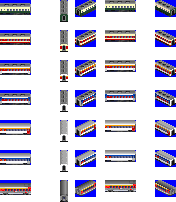
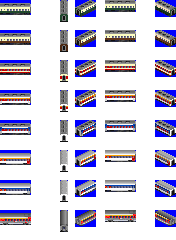
Implement #131: Mugunghwa old livery

diff --git a/docs/download_page/english.html b/docs/download_page/english.html
@@ -230,7 +230,7 @@
         <td class="introduction">1987</td>
     </tr>
     <tr data-veh_id="MUGUNGHWA_CAR">
-        <td class="refit"><div><img src="./_static/MUGUNGHWA_CAR_A.png" alt="Mugunghwa passenger car"><br /><img src="./_static/MUGUNGHWA_CAR_B.png" alt="Mugunghwa passenger car"><br /><img src="./_static/MUGUNGHWA_CAR_C.png" alt="Mugunghwa passenger car"><br /><img src="./_static/MUGUNGHWA_CAR_D.png" alt="Mugunghwa passenger car"><br /><img src="./_static/MUGUNGHWA_CAR_E.png" alt="Mugunghwa passenger car"><br /><img src="./_static/MUGUNGHWA_CAR_RED_BLUE_WHITE.png" alt="Mugunghwa passenger car"><br /><img src="./_static/MUGUNGHWA_CAR_OLD_EXPRESS.png" alt="Mugunghwa passenger car"><br /><img src="./_static/HAERANG.png" alt="Mugunghwa passenger car"><br /><img src="./_static/G_TRAIN.png" alt="Mugunghwa passenger car"><br /><img src="./_static/S_TRAIN_1.png" alt="Mugunghwa passenger car"><br /><img src="./_static/S_TRAIN_2.png" alt="Mugunghwa passenger car"><br /><img src="./_static/A_TRAIN_1.png" alt="Mugunghwa passenger car"></div></td>
+        <td class="refit"><div><img src="./_static/MUGUNGHWA_CAR_A.png" alt="Mugunghwa passenger car"><br /><img src="./_static/MUGUNGHWA_CAR_B.png" alt="Mugunghwa passenger car"><br /><img src="./_static/MUGUNGHWA_CAR_C.png" alt="Mugunghwa passenger car"><br /><img src="./_static/MUGUNGHWA_CAR_D.png" alt="Mugunghwa passenger car"><br /><img src="./_static/MUGUNGHWA_CAR_E.png" alt="Mugunghwa passenger car"><br /><img src="./_static/MUGUNGHWA_CAR_F.png" alt="Mugunghwa passenger car"><br /><img src="./_static/MUGUNGHWA_CAR_RED_BLUE_WHITE.png" alt="Mugunghwa passenger car"><br /><img src="./_static/MUGUNGHWA_CAR_OLD_EXPRESS.png" alt="Mugunghwa passenger car"><br /><img src="./_static/HAERANG.png" alt="Mugunghwa passenger car"><br /><img src="./_static/G_TRAIN.png" alt="Mugunghwa passenger car"><br /><img src="./_static/S_TRAIN_1.png" alt="Mugunghwa passenger car"><br /><img src="./_static/S_TRAIN_2.png" alt="Mugunghwa passenger car"><br /><img src="./_static/A_TRAIN_1.png" alt="Mugunghwa passenger car"></div></td>
         <td class="name">Mugunghwa passenger car</td>
         <td class="speed">135 km/h</td>
         <td class="speed_designed">135 km/h</td>

diff --git a/docs/download_page/korean.html b/docs/download_page/korean.html
@@ -230,7 +230,7 @@
         <td class="introduction">1987</td>
     </tr>
     <tr data-veh_id="MUGUNGHWA_CAR">
-        <td class="refit"><div><img src="./_static/MUGUNGHWA_CAR_A.png" alt="무궁화호 객차"><br /><img src="./_static/MUGUNGHWA_CAR_B.png" alt="무궁화호 객차"><br /><img src="./_static/MUGUNGHWA_CAR_C.png" alt="무궁화호 객차"><br /><img src="./_static/MUGUNGHWA_CAR_D.png" alt="무궁화호 객차"><br /><img src="./_static/MUGUNGHWA_CAR_E.png" alt="무궁화호 객차"><br /><img src="./_static/MUGUNGHWA_CAR_RED_BLUE_WHITE.png" alt="무궁화호 객차"><br /><img src="./_static/MUGUNGHWA_CAR_OLD_EXPRESS.png" alt="무궁화호 객차"><br /><img src="./_static/HAERANG.png" alt="무궁화호 객차"><br /><img src="./_static/G_TRAIN.png" alt="무궁화호 객차"><br /><img src="./_static/S_TRAIN_1.png" alt="무궁화호 객차"><br /><img src="./_static/S_TRAIN_2.png" alt="무궁화호 객차"><br /><img src="./_static/A_TRAIN_1.png" alt="무궁화호 객차"></div></td>
+        <td class="refit"><div><img src="./_static/MUGUNGHWA_CAR_A.png" alt="무궁화호 객차"><br /><img src="./_static/MUGUNGHWA_CAR_B.png" alt="무궁화호 객차"><br /><img src="./_static/MUGUNGHWA_CAR_C.png" alt="무궁화호 객차"><br /><img src="./_static/MUGUNGHWA_CAR_D.png" alt="무궁화호 객차"><br /><img src="./_static/MUGUNGHWA_CAR_E.png" alt="무궁화호 객차"><br /><img src="./_static/MUGUNGHWA_CAR_F.png" alt="무궁화호 객차"><br /><img src="./_static/MUGUNGHWA_CAR_RED_BLUE_WHITE.png" alt="무궁화호 객차"><br /><img src="./_static/MUGUNGHWA_CAR_OLD_EXPRESS.png" alt="무궁화호 객차"><br /><img src="./_static/HAERANG.png" alt="무궁화호 객차"><br /><img src="./_static/G_TRAIN.png" alt="무궁화호 객차"><br /><img src="./_static/S_TRAIN_1.png" alt="무궁화호 객차"><br /><img src="./_static/S_TRAIN_2.png" alt="무궁화호 객차"><br /><img src="./_static/A_TRAIN_1.png" alt="무궁화호 객차"></div></td>
         <td class="name">무궁화호 객차</td>
         <td class="speed">135 km/h</td>
         <td class="speed_designed">135 km/h</td>
